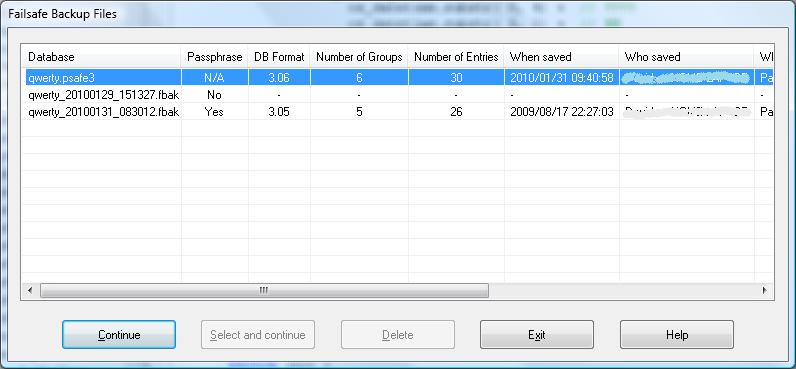
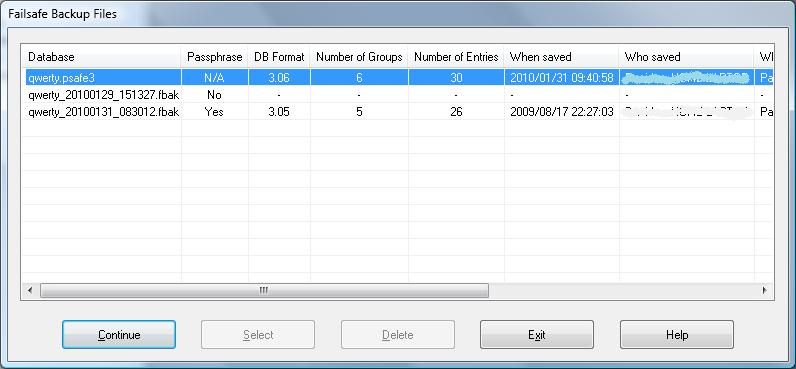
HTML nits and update image with latest button captions.

diff --git a/pwsafe/pwsafe/help/default/html/failsafebackups.html b/pwsafe/pwsafe/help/default/html/failsafebackups.html
@@ -1,5 +1,5 @@
 <!DOCTYPE HTML PUBLIC "-//W3C//DTD HTML 4.01 Transitional//EN">
-<html><head><title>Failsafe Backups</title><!-- pwsafe version: 3.21--><!-- Modified: 1/28/2010 --><!--Popup control -->
+<html><head><title>Failsafe Backups</title><!-- pwsafe version: 3.21--><!-- Modified: 1/31/2010 --><!--Popup control -->
 
 <script language="javascript" src="html/popups.js">
 </script>
@@ -9,39 +9,37 @@
 <!-- Popup Source File -->
 <h2>Failsafe Backups</h2>
 
-<p>When PasswordSafe exits normally, you are prompted&nbsp;if there are
-unsaved changes to the database. However, if you&nbsp;log off your
-Windows session, shutdown or restart your PC, then PasswordSafe may not
-have the opportunity to prompt you.</p>
+<p>When PasswordSafe exits normally, you are prompted if there are unsaved changes to the
+database. However, if you log off your Windows session, shutdown or restart your PC, then
+PasswordSafe may not have the opportunity to prompt you.</p>
 
-<p>In this case, PasswordSafe will attempt to make a "Failsafe Backup" (file extension 'fbak'). This will be created in the same
-directory as the currently open database.  The current database and its "regular" backups
-will not be touched.</p>
+<p>In this case, PasswordSafe will attempt to make a "Failsafe Backup" (file extension 'fbak').
+This will be created in the same directory as the currently open database. The current database
+and its "regular" backups will not be touched.</p>
 
 <p>When the original database is opened again, PasswordSafe will check for the existence of any
-Failsafe Backup file and, if&nbsp;found, will display a dialog similar to that below.</p>
+Failsafe Backup file and, if found, will display a dialog similar to that below.</p>
 
 <img alt="Failsafe Backup Display during Open" src="images/failsafebackup.jpg">
 
-<p>The first row is the specified database followed by general information about it
-(the same as shown in the File-&gt;Properties dialog). This is followed by the Failsafe Backup file(s).
+<p>The first row is the specified database followed by general information about it (the same as
+shown in the Properties dialog from the File menu). This is followed by the Failsafe Backup file(s).
 If they can be opened with the same passphrase as the currently open database, then their
 properties are also displayed. If they have a different passphrase or are not a valid database,
-then a 'No' is displayed in the Passphrase column and no properties are displayed.
+then a 'No' is displayed in the Passphrase column and no properties are displayed.</p>
 
-</p><p>Your choices are as follows:
-</p><ul>
+<p>Your choices are as follows:
+<ul>
 <li>Continue<br>
-Clicking on this causes PasswordSafe to ignore all Failsafe backup files and continue with the currently selected database.</li>
+Clicking on this causes PasswordSafe to ignore all Failsafe backup files and continue with the
+currently selected database.</li>
 <br>
 <li>Select<br>
-The selected Failsafe Backup file will
-be opened instead of selected database.</li>
+The selected Failsafe Backup file will be opened instead of the currently selected database.</li>
 <br>
 <li>Delete<br>
-This will delete the selected Failsafe
-Backup file. If Windows supports a Recycle Bin on this media (usually only local
-disks), it will be moved there. If not, it will be permanently deleted.</li>
+This will delete the selected Failsafe Backup file. If Windows supports a Recycle Bin on this media
+(usually only local disks), it will be moved there. If not, it will be permanently deleted.</li>
 <br>
 <li>Exit<br>
 If this is the first database opened on the startup of PasswordSafe, PasswordSafe will exit. If not,
@@ -50,37 +48,38 @@ the new open will be cancelled and the existing opened database, if any, will re
 <li>Help<br>
 Displays this Help topic.</li>
 </ul>
-
+</p>
 
 <p><i>Suggestions:</i></p>
-<ul>
+<p><ul>
 <li>If you are unable to choose, continue with the current database and use the database Compare
 function from the File menu to show the exact differences between the current and the Failsafe backup(s).</li>
 <li>If you do open a Failsafe Backup and have decided that it is the version you wish to keep,
-you should save it as a normal database. When you do, consider renaming&nbsp;the original first or save the Failsafe Backup
-with a completely new name.</li>
+you should save it as a normal database. When you do, consider renaming the original first or
+save the Failsafe Backup with a completely new name.</li>
 <li>Once you are satisfied that you have recovered the correct database, either the original or a
 Failsafe Backup, you should delete any old Failsafe Backups so that you will not be prompted to
-decide at a later date.  Note: If you use this dialog to delete these files, they will be sent to the
-Recycle Bin, if your version of Windows supports it on the media containing&nbsp;them.</li>
-</ul>
-<p></p>
+decide at a later date. Note: If you use this dialog to delete these files, they will be sent to the
+Recycle Bin, if your version of Windows supports it on the media containing them.</li>
+</ul></p>
 
 <p><b>Note: There is nothing that <u>ANY</u> application can do to save information if the PC is just
-switched off, loses power or the processor, the hard disk or any other component fails. </b><b><b><b>As with all data important to you, you should backup your data to another media <u>regularly</u>.
-This could be to USB pen drives, external hard disks, network drives, CDs or DVDs etc.<b> These backups should be stored somewhere safe.</b></b></b></b></p>
+switched off, loses power or the processor, the hard disk or any other component fails. As with all data
+important to you, you should backup your data to another media <u>regularly</u>. This could be to USB pen
+drives, external hard disks, network drives, CDs or DVDs etc. These backups should be stored somewhere
+safe.</b></p>
 
-<hr><!-- Added some white space at the bottom for natural scrolling --><b><b><b><b><b><a name="N1"><b><br>
+<hr><!-- Added some white space at the bottom for natural scrolling --><b><a name="N1"><br>
 <br>
 <br>
 <object type="application/x-oleobject"
-        classid="clsid:1e2a7bd0-dab9-11d0-b93a-00c04fc99f9e">
-  <param name="Keyword" value="Logoff">
-  <param name="Keyword" value="Shutdown">
-  <param name="Keyword" value="Restart">
-  <param name="Keyword" value="Backup (failsafe)">
-  <param name="Keyword" value="Failsafe">
-  <param name="Keyword" value="Recovery">
+    classid="clsid:1e2a7bd0-dab9-11d0-b93a-00c04fc99f9e">
+ <param name="Keyword" value="Logoff">
+ <param name="Keyword" value="Shutdown">
+ <param name="Keyword" value="Restart">
+ <param name="Keyword" value="Backup (failsafe)">
+ <param name="Keyword" value="Failsafe">
+ <param name="Keyword" value="Recovery">
 </object>
-</b></a>
-</b></b></b></b></b></body></html>
+</a></b>
+</body></html>
